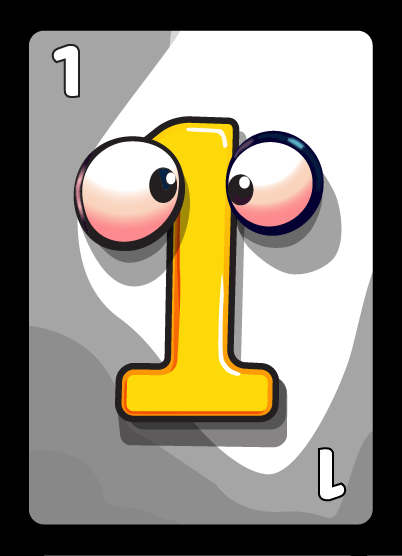
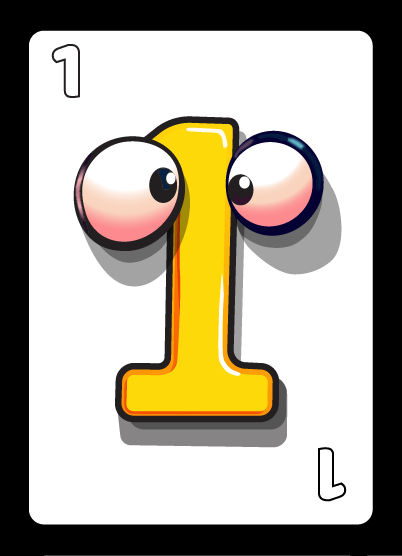
Update card images and add backgrounds

Changed region(s): [[0.0597, 0.0306, 0.9254, 0.9478]]

diff --git a/index3.html b/index3.html
@@ -28,16 +28,20 @@
       }
 
       .amber {
-        background-color: var(--amber);
+        background: url("images/amber.png");
+        background-size: cover;
       }
       .rouge {
-        background-color: var(--rouge);
+        background: url("images/rouge.png");
+        background-size: cover;
       }
       .turquoise {
-        background-color: var(--turquoise);
+        background: url("images/turquoise.png");
+        background-size: cover;
       }
       .violet {
-        background-color: var(--violet);
+        background: url("images/violet.png");
+        background-size: cover;
       }
 
       .hero {
@@ -880,10 +884,22 @@
         content: "";
         position: absolute;
         bottom: -30px;
-        left: 100px;
+        left: 140px;
         width: 2px;
         height: 30px;
         background: linear-gradient(to bottom, #e02626 50%, transparent);
+      }
+
+      .rule-item:not(:last-child):nth-child(even)::after {
+        left: auto;
+        right: 140px;
+      }
+
+      .rule-card-container {
+        grid-area: card;
+        display: flex;
+        justify-content: center;
+        margin-inline: 40px;
       }
 
       .rule-card {
@@ -908,10 +924,14 @@
       }
 
       .rule-content {
+        display: grid;
+        grid-template-areas: "card title" "card content";
         flex-grow: 1;
       }
 
       .rule-content h3 {
+        grid-area: title;
+        align-self: flex-end;
         font-size: 1.5rem;
         font-weight: 700;
         margin-bottom: 12px;
@@ -937,6 +957,7 @@
       }
 
       .rule-content p {
+        grid-area: content;
         font-size: 1.1rem;
         line-height: 1.6;
         color: #4a4a4a;
@@ -945,6 +966,9 @@
       /* Alternate layout for even items */
       .rule-item:nth-child(even) {
         flex-direction: row-reverse;
+      }
+      .rule-item:nth-child(even) .rule-content {
+        grid-template-areas: "title card" "content card";
       }
 
       /* Responsive adjustments */
@@ -959,11 +983,17 @@
           flex-direction: column;
         }
 
+        .rule-content,
+        .rule-item:nth-child(even) .rule-content {
+          grid-template-areas: "title" "card" "content";
+        }
+
         .rule-content h3 {
           justify-content: center;
         }
 
-        .rule-item:not(:last-child)::after {
+        .rule-item:not(:last-child)::after,
+        .rule-item:not(:last-child):nth-child(even)::after {
           left: 50%;
           transform: translateX(-50%);
         }
@@ -1372,15 +1402,17 @@
       <h2>Rules</h2>
       <div class="rules-container">
         <div class="rule-item">
-          <div class="rule-card">
-            <img
-              src="images/card_U-turn.png"
-              alt="U-turn card example"
-              class="amber"
-            />
-          </div>
           <div class="rule-content">
             <h3>U-turn</h3>
+            <div class="rule-card-container">
+              <div class="rule-card">
+                <img
+                  src="images/card_U-turn.png"
+                  alt="U-turn card example"
+                  class="amber"
+                />
+              </div>
+            </div>
             <p>
               Shuffle the deck and deal 7 cards to each player. Place the
               remaining cards face down as the draw pile.
@@ -1389,15 +1421,17 @@
         </div>
 
         <div class="rule-item">
-          <div class="rule-card">
-            <img
-              src="images/card_Zzz.png"
-              alt="Sleep (Zzz...) card example"
-              class="amber"
-            />
-          </div>
           <div class="rule-content">
             <h3>Sleep (Zzz...)</h3>
+            <div class="rule-card-container">
+              <div class="rule-card">
+                <img
+                  src="images/card_Zzz.png"
+                  alt="Sleep (Zzz...) card example"
+                  class="amber"
+                />
+              </div>
+            </div>
             <p>
               On your turn, draw a card and read the situation out loud. Choose
               another player who must respond with either a "Sorry" or "Not
@@ -1407,15 +1441,17 @@
         </div>
 
         <div class="rule-item">
-          <div class="rule-card">
-            <img
-              src="images/card_+2.png"
-              alt="Draw Extra Two (+2) card example"
-              class="amber"
-            />
-          </div>
           <div class="rule-content">
             <h3>Draw Extra Two (+2)</h3>
+            <div class="rule-card-container">
+              <div class="rule-card">
+                <img
+                  src="images/card_+2.png"
+                  alt="Draw Extra Two (+2) card example"
+                  class="amber"
+                />
+              </div>
+            </div>
             <p>
               If other players vote that your response was genuine and fitting,
               you keep the card as a point. If not, the card goes to the discard
@@ -1425,14 +1461,16 @@
         </div>
 
         <div class="rule-item">
-          <div class="rule-card">
-            <img
-              src="images/card_+4.png"
-              alt="Draw Extra Four (+4) card example"
-            />
-          </div>
           <div class="rule-content">
             <h3>Draw Extra Four (+4)</h3>
+            <div class="rule-card-container">
+              <div class="rule-card">
+                <img
+                  src="images/card_+4.png"
+                  alt="Draw Extra Four (+4) card example"
+                />
+              </div>
+            </div>
             <p>
               The first player to collect 5 cards wins! They are crowned the
               Sorry Not Sorry champion of brutal honesty.
@@ -1441,11 +1479,13 @@
         </div>
 
         <div class="rule-item">
-          <div class="rule-card">
-            <img src="images/card_Thief.png" alt="Thief card example" />
-          </div>
           <div class="rule-content">
             <h3>Thief</h3>
+            <div class="rule-card-container">
+              <div class="rule-card">
+                <img src="images/card_Thief.png" alt="Thief card example" />
+              </div>
+            </div>
             <p>
               If other players vote that your response was genuine and fitting,
               you keep the card as a point. If not, the card goes to the discard
@@ -1455,15 +1495,17 @@
         </div>
 
         <div class="rule-item">
-          <div class="rule-card">
-            <img
-              src="images/card_7.png"
-              alt="Number 7 card example"
-              class="amber"
-            />
-          </div>
           <div class="rule-content">
             <h3>Number 7</h3>
+            <div class="rule-card-container">
+              <div class="rule-card">
+                <img
+                  src="images/card_7.png"
+                  alt="Number 7 card example"
+                  class="amber"
+                />
+              </div>
+            </div>
             <p>
               The first player to collect 5 cards wins! They are crowned the
               Sorry Not Sorry champion of brutal honesty.
